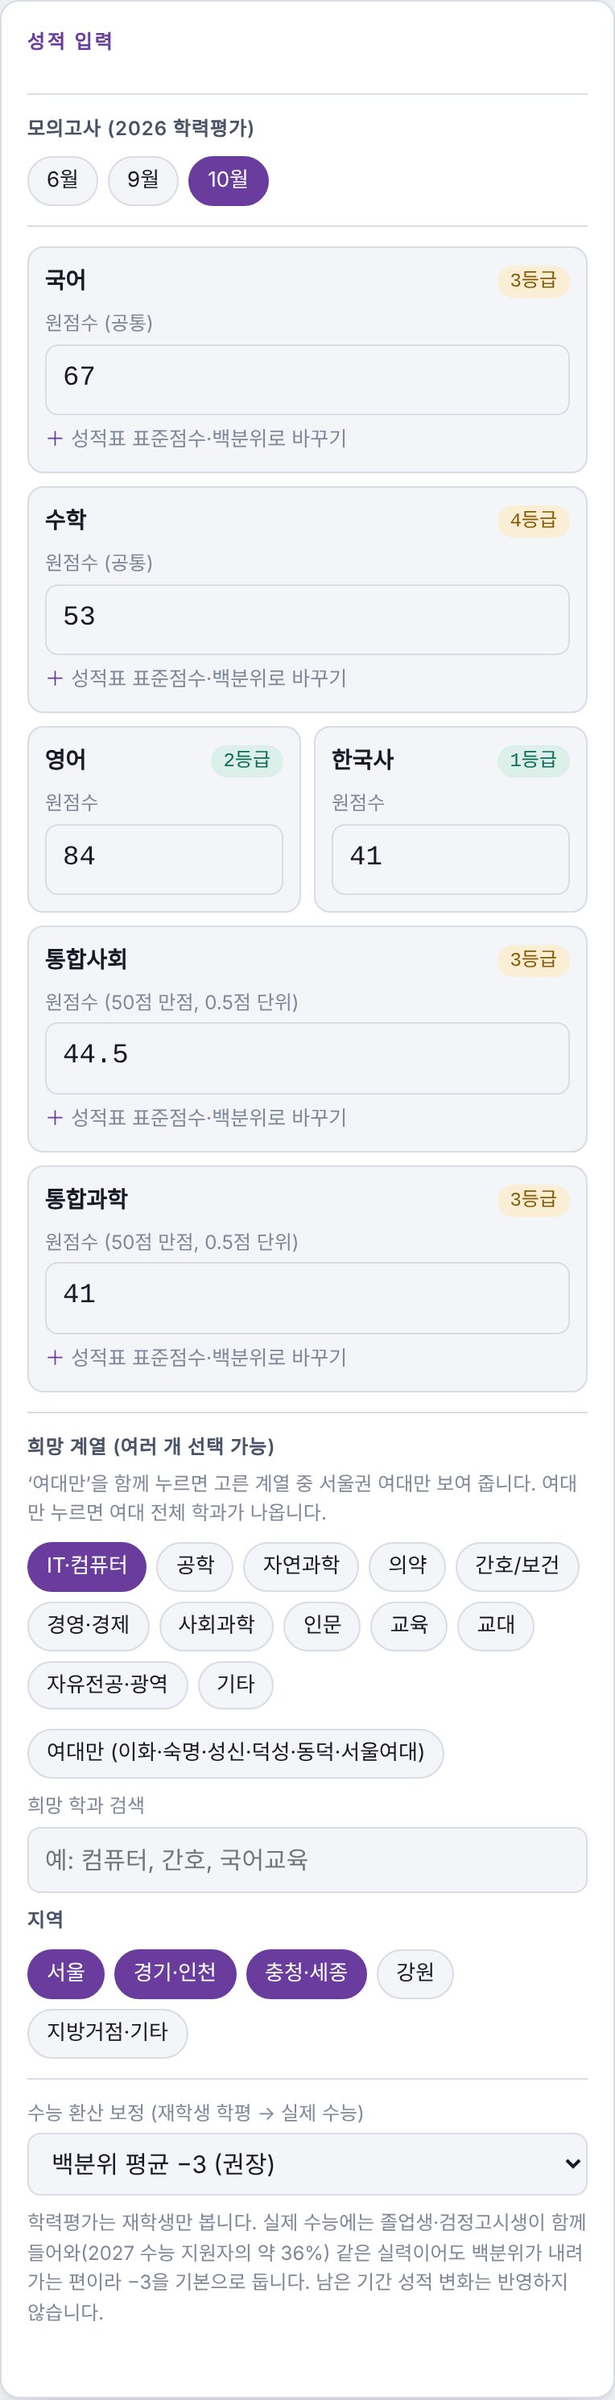
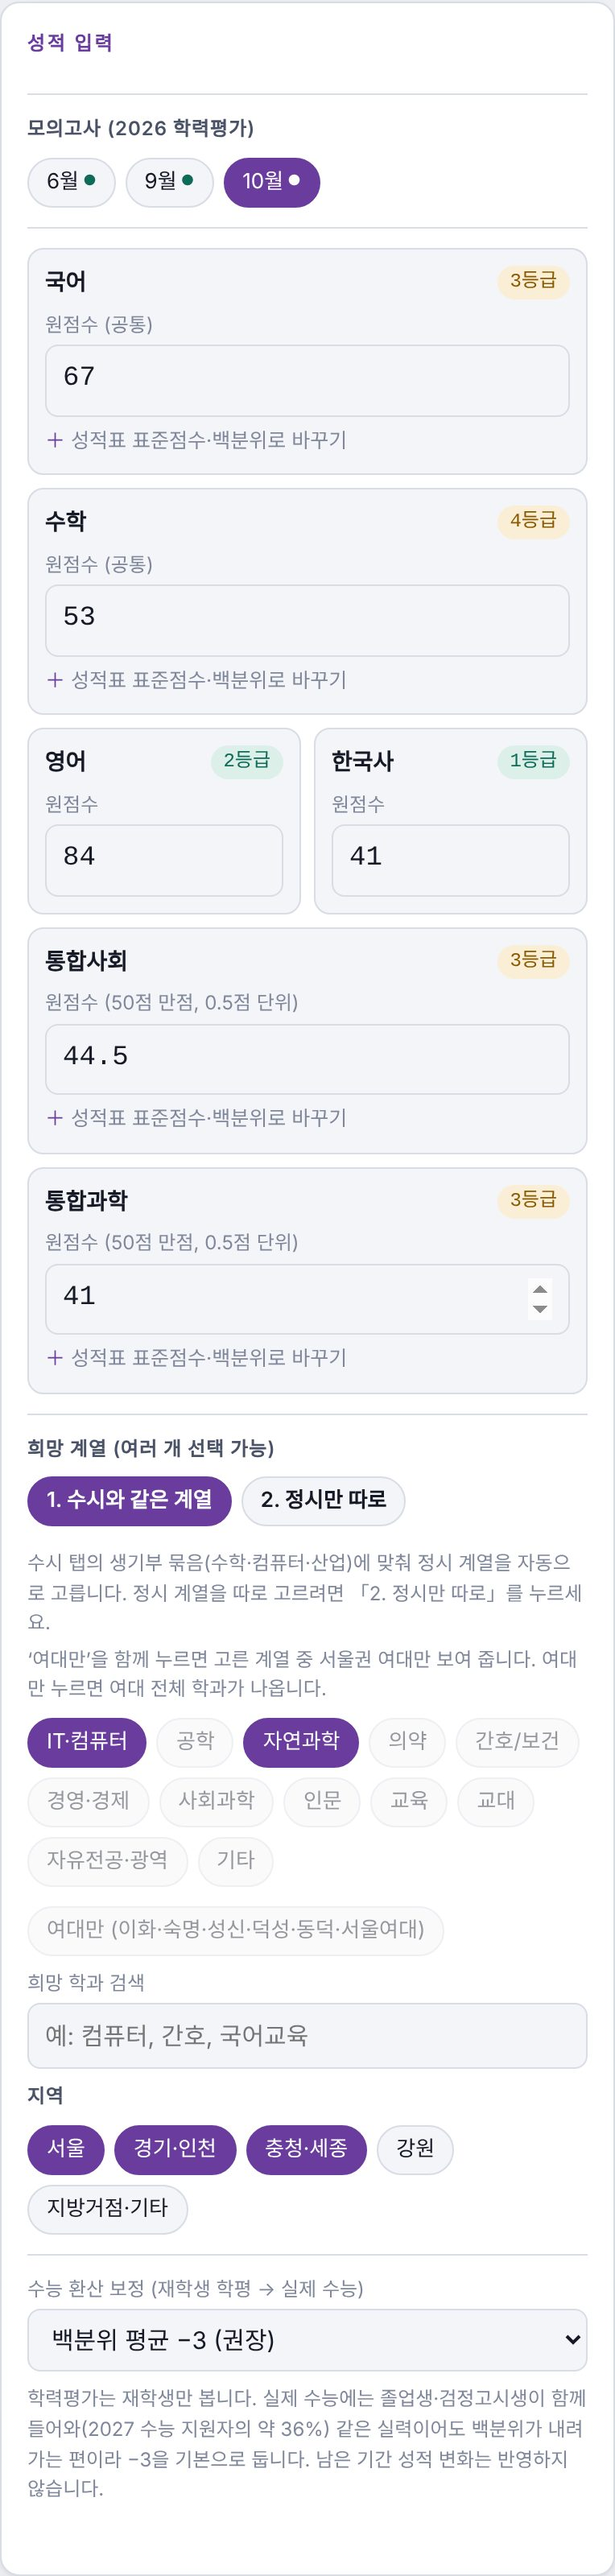
설명서: 한눈에(부등호·조언), 성적 추이, 목표안, FAQ 반영과 화면 갱신
Claude-Session: https://claude.ai/code/session_01XGQ8LrLhV2HUaEG4xWrpcN

diff --git a/ipsi/guide/index.html b/ipsi/guide/index.html
@@ -181,8 +181,10 @@ dl.faq dd{margin:4px 0 0;color:var(--ink-2)}
       <li>성적표가 있으면 「+ 성적표 표준점수·백분위로 바꾸기」를 눌러 표준점수와 백분위를 그대로 넣을 수 있습니다. 원점수로 추정한 값보다 정확합니다.</li>
     </ol>
     <h3>모의고사 성적 추이 (누적 관리)</h3>
-    <p>6월·9월·10월 점수는 <b>시험마다 따로 저장</b>됩니다. 「모의고사」에서 시험을 바꾸면 그 시험의 점수가 나오고, 점수를 넣은 시험 버튼에는 초록 점(●)이 붙습니다. 두 번 이상 넣으면 「모의고사 성적 추이」 카드에 국어·수학·통합사회·통합과학은 백분위, 영어는 원점수 그래프가 나오고, <b>뚜렷하게 내려가는(하락세) 과목</b>과 <b>세 번 이상 같은 등급에 멈춘(정체) 과목</b>에 대한 학습 방향을 알려 줍니다. 화면에 보이는 판정과 수시 최저는 지금 고른 시험 점수로 계산합니다.</p>
+    <p>6월·9월·10월 점수는 <b>시험마다 따로 저장</b>됩니다. 「모의고사」에서 시험을 바꾸면 그 시험의 점수가 나오고, 점수를 넣은 시험 버튼에는 초록 점(●)이 붙습니다. 두 번 이상 넣으면 「모의고사 성적 추이」 카드에 국어·수학·통합사회·통합과학은 백분위, 영어는 원점수로 그래프가 나오고, <b>뚜렷하게 내려가는(하락세) 과목</b>과 <b>세 번 이상 같은 등급에 멈춘(정체) 과목</b>에 대한 학습 방향을 알려 줍니다. 화면에 보이는 판정과 수시 최저는 지금 고른 시험 점수로 계산합니다.</p>
     <p><b>고2</b>는 「작년(고1) 모의고사 성적 넣기」를 열어 고1 3·6·9·10월 성적표의 등급(과 백분위)을 넣을 수 있습니다. 넣은 시험만 그래프 앞쪽에 「1-6」처럼 붙고, 비워 두면 반영하지 않습니다.</p>
+    <figure class="shot"><img src="img/13_j_trend.jpg" alt="모의고사 성적 추이 그래프와 학습 방향" loading="lazy"><figcaption>6·9·10월을 넣은 예시. 국어·수학이 세 번 연속 같은 등급이라 「정체」로 조언합니다.</figcaption></figure>
+    <p>그래프 점 위 숫자는 백분위(영어는 원점수)이고, 점 색은 등급입니다. 「~」가 붙은 빈 점은 성적표에 백분위가 없어 등급으로 추정한 값입니다. 한국사는 그래프에서 뺐습니다.</p>
     <h3>희망 계열·지역</h3>
     <ul>
       <li><b>희망 계열</b>은 처음에 <b>「1. 수시와 같은 계열」</b>로 되어 있어, 수시 탭에서 고른 생기부 묶음에 맞춰 정시 계열이 자동으로 골라집니다(예: 경영·경제 → 경영·경제, 물리·전기전자·기계 → 공학). 정시에서만 다른 계열을 보고 싶으면 <b>「2. 정시만 따로」</b>를 누르고 직접 고르세요. 여러 개 고를 수 있고, 「여대만」을 같이 누르면 고른 계열 중 서울권 여대만 나옵니다.</li>
@@ -282,22 +284,29 @@ dl.faq dd{margin:4px 0 0;color:var(--ink-2)}
     <h3>논술 전형</h3>
     <p>논술은 내신 컷 대신 <b>경쟁률과 최저 충족 여부</b>로 보여 줍니다. 「최저 충족」만 보거나 「최저 없음」만 볼 수 있습니다. 내신보다 논술 실력과 최저가 합격을 가릅니다.</p>
     <h3>목표 대학까지 남은 등급·점수</h3>
-    <p>☆로 담은 대학을 고르면, 남은 학기에 평균 몇 등급을 받아야 컷에 닿는지(수시), 백분위를 얼마나 올려야 하는지(정시) 계산해 줍니다. 학기 목표를 세울 때 쓰세요.</p>
+    <p>☆로 담은 대학을 고르면, 남은 학기에 평균 몇 등급을 받아야 컷에 닿는지(수시), 백분위를 얼마나 올려야 하는지(정시) 계산해 줍니다. 정시는 과목별로 몇 점씩 올리면 되는지 여러 안을 <b>가능성이 높은 순서</b>로 보여 주고, 1안이 「가장 현실적인 방법」입니다. 학기 목표를 세울 때 쓰세요.</p>
   </section>
 
   <section class="c" id="overview">
     <h2><span class="n">8</span>한눈에 탭</h2>
-    <figure class="shot"><img src="img/02_overview.jpg" alt="한눈에 탭 내 위치" loading="lazy"><figcaption>왼쪽(위)은 수시, 오른쪽(아래)은 정시</figcaption></figure>
+    <p>수시와 정시를 한 화면에서 비교하고, 앞으로 어느 쪽에 힘을 쏟을지 조언을 받는 화면입니다. 모양은 「ㅗ」처럼 위에 <b>수시 | 부등호 | 정시</b>, 아래에 <b>조언</b>이 놓입니다(휴대폰에서는 위에서 아래로 쌓입니다).</p>
+    <figure class="shot"><img src="img/02_overview.jpg" alt="한눈에 탭: 수시와 정시 비교, 부등호, 조언" loading="lazy"><figcaption>예시: 내신 1.45, 정시 백분위 76.8인 고1</figcaption></figure>
+    <h3>수시 · 부등호 · 정시</h3>
     <ul>
       <li><b>수시</b> : 내신(5등급제)과 9등급 환산값, 판정 분포.</li>
       <li><b>정시</b> : 국·수·탐 백분위 평균, 과목별 등급·백분위, 판정 분포.</li>
-      <li><b>가운데 「수시·정시 어느 쪽이 유리할까」</b> : 내신과 정시를 각각 「상위 몇 %」로 바꿔 수시 유리 · 비슷 · 정시 유리를 판정하고, 세 가지 길 중 하나를 <b>추천</b>합니다.
-        <ol style="margin-top:4px"><li>정시까지 준비하기</li><li>최저를 맞춰 수시를 올리기</li><li>내신에 집중하기</li></ol>
-        정시로 인서울 대학이 보이면(농어촌 전형이든 일반 전형이든) 수시가 더 좋아도 <b>1번 정시까지 준비하기</b>를 추천합니다. 수시 등급은 학년이 올라갈수록 내려가기 쉽고, 수능은 남은 기간 동안 더 올릴 수 있기 때문입니다. 고1은 소신권까지, 고2는 남은 기간이 짧아 적정권 이상일 때만 이렇게 판정하고, 고2에게는 남은 두 학기와 수능 1년을 기준으로 더 현실적으로 안내합니다.<br>
-        영어가 3등급 이하이면 영어를 2·3등급으로 올렸을 때 최저를 맞추는 곳이 몇 곳 늘어나는지, 어떤 대학이 새로 열리는지도 보여 줍니다. 영어가 이미 2등급 이상이면 국어·수학·탐구 중 한 과목을 1등급 올렸을 때를 보여 줍니다.</li>
-      <li>아래에 수시 6장과 정시 군별 후보를 함께 보여 줍니다.</li>
+      <li><b>가운데 녹색 부등호</b> : 내신과 정시를 각각 「상위 몇 %」로 바꿔 비교합니다. <b>&gt;</b> 수시 유리, <b>≈</b> 비슷, <b>&lt;</b> 정시 유리.</li>
     </ul>
-    <div class="tip"><b>수시·정시 중 어느 쪽이 유리할까</b> : 판정 분포에서 「적정」 이상 대학 수준을 비교합니다. 정시 적정 대학이 수시 적정 대학보다 높으면 정시 강세, 반대면 수시 강세입니다. 수시는 정시로 갈 수 있는 대학보다 한 단계 위를 노리는 것이 원칙입니다.</div>
+    <h3>수시·정시 어느 쪽이 유리할까 (조언)</h3>
+    <p>세 가지 길 중 지금 학생에게 맞는 하나만 <b>「추천」</b>으로 강조하고, 나머지는 회색으로 흐리게 보여 줍니다.</p>
+    <ol>
+      <li><b>정시까지 준비하기</b> : 정시가 유리하거나 비슷할 때, 또는 <b>정시로 인서울 대학이 보일 때</b>(농어촌 전형이든 일반 전형이든). 수시 등급은 학년이 올라갈수록 내려가기 쉽고, 수능은 남은 기간 동안 더 올릴 수 있기 때문입니다. 실제로 갈 수 있는 인서울 대학 2곳을 함께 보여 줍니다. 고1은 소신권까지, 고2는 남은 기간이 짧아 적정권 이상일 때만 이렇게 판정합니다.</li>
+      <li><b>최저를 맞춰 수시를 올리기</b> : 수시가 유리하고, 모의고사로 최저를 맞추거나 조금만 올리면 맞출 수 있을 때. 최저 있는 전형 중 구체적인 예 2곳(대학·학과·전형, 최저 기준, 내신 컷, 지금 충족인지 / 무엇을 올리면 충족인지)을 보여 줍니다.</li>
+      <li><b>내신에 집중하기</b> : 수시가 유리하지만 정시와 최저 모두 거리가 있을 때.</li>
+    </ol>
+    <p>노란 상자에는 <b>영어로 최저를 맞추면</b> 얼마나 좋아지는지 나옵니다. 영어가 3등급 이하이면 영어를 2·3등급으로 올렸을 때 최저를 맞추는 곳이 몇 곳 늘어나는지와 새로 열리는 대학을, 영어가 이미 2등급 이상이면 국어·수학·탐구 중 한 과목을 1등급 올렸을 때를 보여 줍니다.</p>
+    <p>고2에게는 남은 두 학기(2-2, 3-1)와 수능까지 1년을 기준으로 더 현실적인 문구로 안내합니다.</p>
+    <p>그 아래에 수시 6장과 정시 군별 후보를 함께 보여 줍니다.</p>
   </section>
 
   <section class="c" id="judge">
@@ -335,6 +344,10 @@ dl.faq dd{margin:4px 0 0;color:var(--ink-2)}
       <dd>노란 「★ 최저유무」 스위치가 꺼져 있으면 최저 없는 전형만 보입니다. 스위치를 켜세요.</dd>
       <dt>6장에 카드가 비어 있어요.</dt>
       <dd>고른 조건(전형·생기부 묶음·지역) 안에 해당 학과가 없는 경우입니다. 생기부 묶음이나 지역을 더 고르거나, 전형 버튼을 더 켜 보세요.</dd>
+      <dt>모의고사 시험을 바꿨더니 점수가 비었어요.</dt>
+      <dd>6월·9월·10월 점수는 시험마다 따로 저장됩니다. 비어 있는 시험은 아직 점수를 넣지 않은 것이고, 다른 시험 점수는 그대로 남아 있습니다. 점수를 넣은 시험 버튼에는 초록 점(●)이 붙습니다.</dd>
+      <dt>정시 희망 계열을 누를 수가 없어요.</dt>
+      <dd>「1. 수시와 같은 계열」이 켜져 있으면 수시 탭의 생기부 묶음을 따라가도록 잠겨 있습니다. 정시만 다르게 보고 싶으면 「2. 정시만 따로」를 누르세요.</dd>
       <dt>다른 휴대폰에서 열었더니 성적이 없어요.</dt>
       <dd>성적은 그 기기의 브라우저에만 저장됩니다. 새 기기에서는 다시 넣어야 합니다. 카카오톡 안의 브라우저와 크롬·사파리도 서로 다른 브라우저라 따로 저장됩니다.</dd>
       <dt>성적을 지우고 싶어요.</dt>
